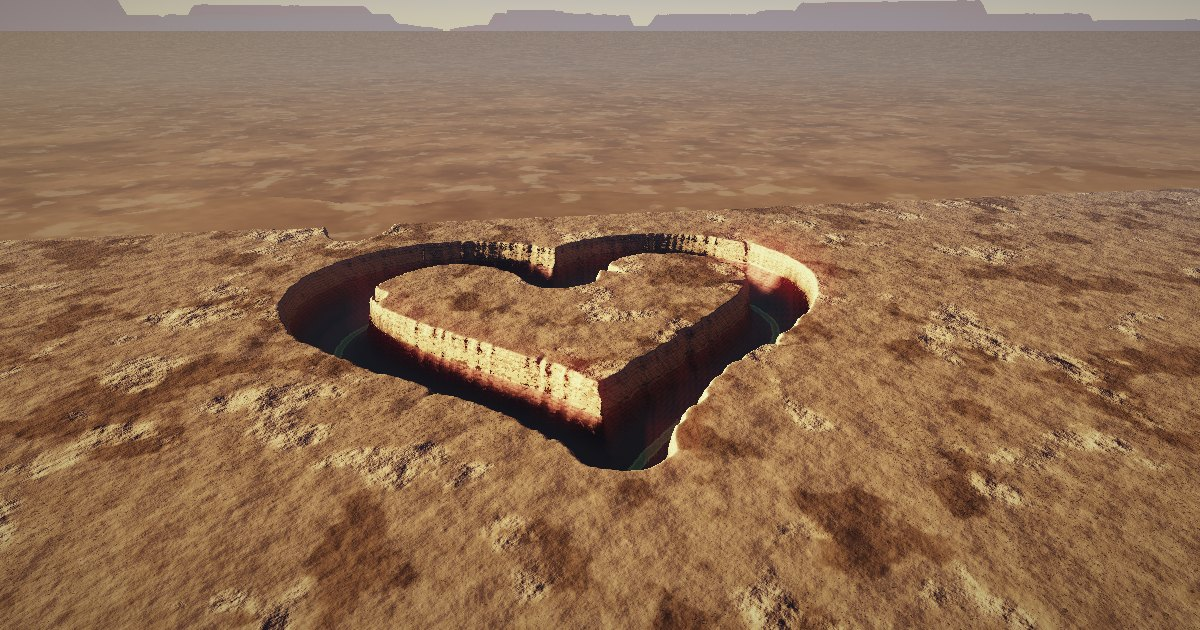
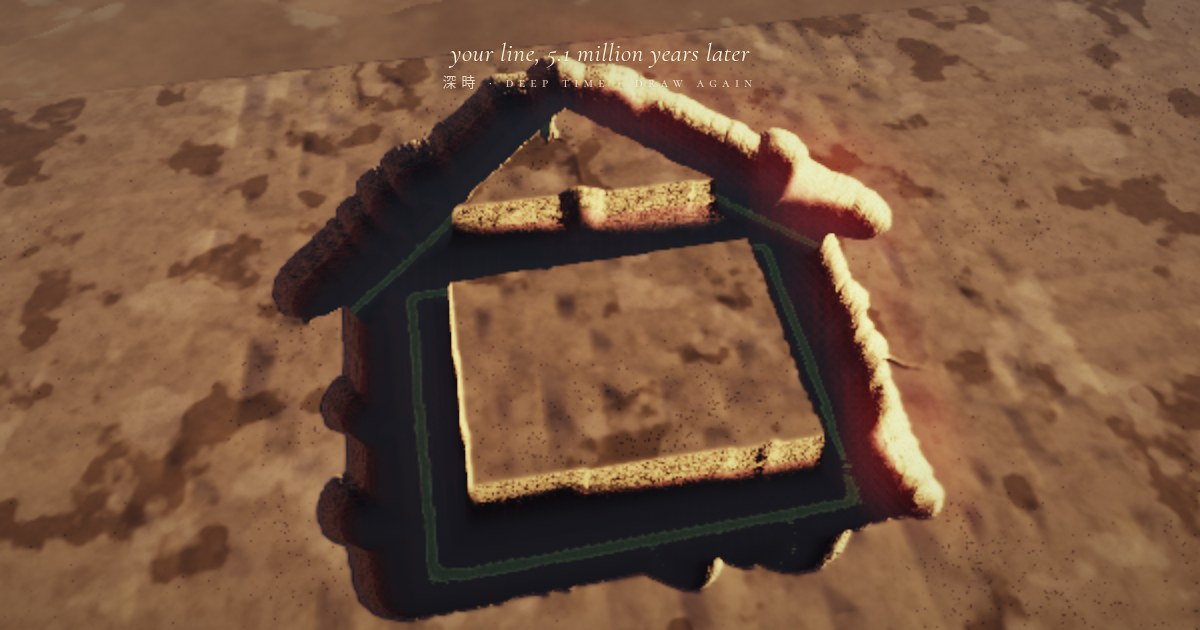
round4-lab v6 polish: postcard bottom margin, steeper rotated postcards, far-margin blend, new og.jpg

diff --git a/20261009-round4-lab/v6/main.js b/20261009-round4-lab/v6/main.js
@@ -188,6 +188,8 @@ void main(){ vec2 u=vec2(uv.x, 1.-uv.y); vec2 u0=u;
 #define FN ${(Q.has('fn') ? P('fn') : 0).toFixed(3)}
 #define SHB ${(Q.has('shb') ? P('shb') : 2.5).toFixed(3)}
 #define ISLON ${Q.has('noisl') ? '0.' : '1.'}
+#define EF0 ${(Q.has('ef0') ? P('ef0') : 0.42).toFixed(3)}
+#define EFK ${(Q.has('efk') ? P('efk') : 1).toFixed(3)}
 #define DBGISL ${Q.has('dbgisl') ? 'true' : 'false'}
 #define RLO ${(P('rlo') || 9.0).toFixed(2)}
 in vec2 vUv; in vec3 vW; out vec4 o;
@@ -287,11 +289,17 @@ in vec2 vUv; in vec3 vW; out vec4 o;
     if (DBGTOP) { o=vec4(sh, dif, depth, 1.); return; }
     if (DBGISL) { o=vec4(clamp(-t.y,0.,1.), clamp(t.y,0.,1.), 0., 1.); return; }
     col = mix(haze(col, rd, dist, vW.y), haze(col, rd, dist*0.45, 1.), wm);     // water keeps its jade (no violet floor haze)
+#ifndef OUTER
+    if (EFK > 0.) { vec3 wp = vW; vec3 lightG = vec3(2.6,1.75,1.05)*2.0*sun.y*1.4 + vec3(.18,.24,.37);   /* REVIEW-06 #4: the far margin of the sim domain blends into the exact colour the sky pass paints for the tableland beyond it -> no hard pale band */
+      vec3 g = vec3(.60,.41,.30)*0.40*(0.85+0.3*fbm(wp.xz*30.))*lightG; float sd3=max(dot(rd,sun),0.); vec3 dust = mix(vec3(.62,.54,.56), vec3(1.10,.70,.42), pow(sd3,3.))*0.52;
+      g *= (0.60 + 0.55*fbm(wp.xz*2.5+9.))*vec3(1.,.90,.80); g = mix(g, vec3(.24,.14,.10)*lightG*0.5, 0.55*smoothstep(.5,.72,fbm(wp.xz*5.+1.))); g = mix(g, vec3(.80,.62,.46)*lightG*0.42, 0.45*smoothstep(.58,.72,fbm(wp.xz*11.+4.)));
+      g = mix(g, dust, clamp(1.-exp(-dist*0.11), 0., 0.70)); float ef = smoothstep(-EF0, -0.5, vW.z); col = mix(col, g, EFK*ef); }
+#endif
     o=vec4(col,1.); }` });
 const terrain = new THREE.Mesh(new THREE.PlaneGeometry(1, 1, (P('mesh') || 1100) - 1, (P('mesh') || 1100) - 1), terrainMat);
 scene.add(terrain);
 // the tableland runs on to the horizon: an outer skirt (same shader, clamped data, wandering escarpment), so there is no slab edge
-const outerGeo = new THREE.PlaneGeometry(1, 1, 7 * 40, 4 * 40); { const uv = outerGeo.attributes.uv; for (let i = 0; i < uv.count; i++) uv.setXY(i, -3 + 7 * uv.getX(i), -3 + 4 * uv.getY(i)); }
+const SKD = P('skd') || 40, outerGeo = new THREE.PlaneGeometry(1, 1, 7 * SKD, 4 * SKD); { const uv = outerGeo.attributes.uv; for (let i = 0; i < uv.count; i++) uv.setXY(i, -3 + 7 * uv.getX(i), -3 + 4 * uv.getY(i)); }
 const outerMat = new THREE.ShaderMaterial({ glslVersion: THREE.GLSL3, uniforms: terrainMat.uniforms, defines: { OUTER: 1 }, vertexShader: terrainMat.vertexShader, fragmentShader: terrainMat.fragmentShader });
 const outer = new THREE.Mesh(outerGeo, outerMat); outer.frustumCulled = false; if (!Q.has('noskirt')) scene.add(outer);
 // sky + far distance: distant mesa silhouettes in layers of haze
@@ -413,9 +421,9 @@ function restView() {
     const g = 6, c = (a, b) => [(ax.mx + a * ax.ux - b * ax.uz) / N - .5, (ax.mz + a * ax.uz + b * ax.ux) / N - .5];   // oriented box (cells, padded by the canyon half-width)
     const HC = []; for (const q of heroPts) if (q) for (const [dx, dz] of [[g, 0], [-g, 0], [0, g], [0, -g]]) HC.push([(q[0] + dx) / N - .5, (q[1] + dz) / N - .5]);   /* fit the drawn cells themselves (+pad), not the PCA box: a diagonal PCA box around an A is much taller than the A */
     box = Object.assign({}, hb, { C: Q.has('pbox') ? [c(ax.a0 - g, ax.b0 - g), c(ax.a1 + g, ax.b0 - g), c(ax.a0 - g, ax.b1 + g), c(ax.a1 + g, ax.b1 + g)] : HC, c: c((ax.a0 + ax.a1) / 2, (ax.b0 + ax.b1) / 2) });
-    if (ax.open || ax.thin < 0.45) pp = 56; }   // thin / fine-detail shapes (bolt, I, tree, A): high oblique so the zigs don't collapse
+    if (ax.open || ax.thin < 0.45) pp = 56; if (Math.abs(yaw - 10) > 45) pp = P('prot') || 64; }   // rotated (I, bolt): steeper, so the far side edge of the domain (a seam line) stays out of frame   // thin / fine-detail shapes (bolt, I, tree, A): high oblique so the zigs don't collapse
   if (Q.has('ppitch')) pp = P('ppitch');
-  let v = fit3(box, pp, yaw, P('pfov') || 50, pp > 50 ? { l: -0.88, r: 0.88, b: -0.97, t: 0.82 } : { l: -0.88, r: 0.88, b: -0.88, t: 0.44 }, Q.has('plp') ? P('plp') : pp - (pp > 50 ? 2 : 16));
+  let v = fit3(box, pp, yaw, P('pfov') || 50, pp > 50 ? { l: -0.88, r: 0.88, b: -(P('pbot') || 0.86), t: 0.82 } : { l: -0.88, r: 0.88, b: -(P('pbot') || 0.86), t: 0.44 }, Q.has('plp') ? P('plp') : pp - (pp > 50 ? 2 : 16));
   const wf = vv => { if (!heroPts.some(Boolean)) return vv.wfrac; FITCAM.fov = vv.f; FITCAM.aspect = innerWidth / Math.max(1, innerHeight); FITCAM.updateProjectionMatrix(); FITCAM.position.copy(vv.p); FITCAM.lookAt(vv.t); FITCAM.updateMatrixWorld();
     const y = (simInfo.top || 20) * VSC; let l = 9, r = -9; for (const q of heroPts) if (q) { const x = new THREE.Vector3(q[0] / N - .5, y, q[1] / N - .5).project(FITCAM).x; l = Math.min(l, x); r = Math.max(r, x); } return (r - l) / 2 + 0.03; };   /* drawn-line extent + canyon width (~3 % of frame) */
   v.wfrac = wf(v); if (v.wfrac < 0.45) { const r = revView(); r.wfrac = wf(r); r.fallback = true; if (r.wfrac > v.wfrac) v = r; }   // still narrow: end on the reveal-like view
